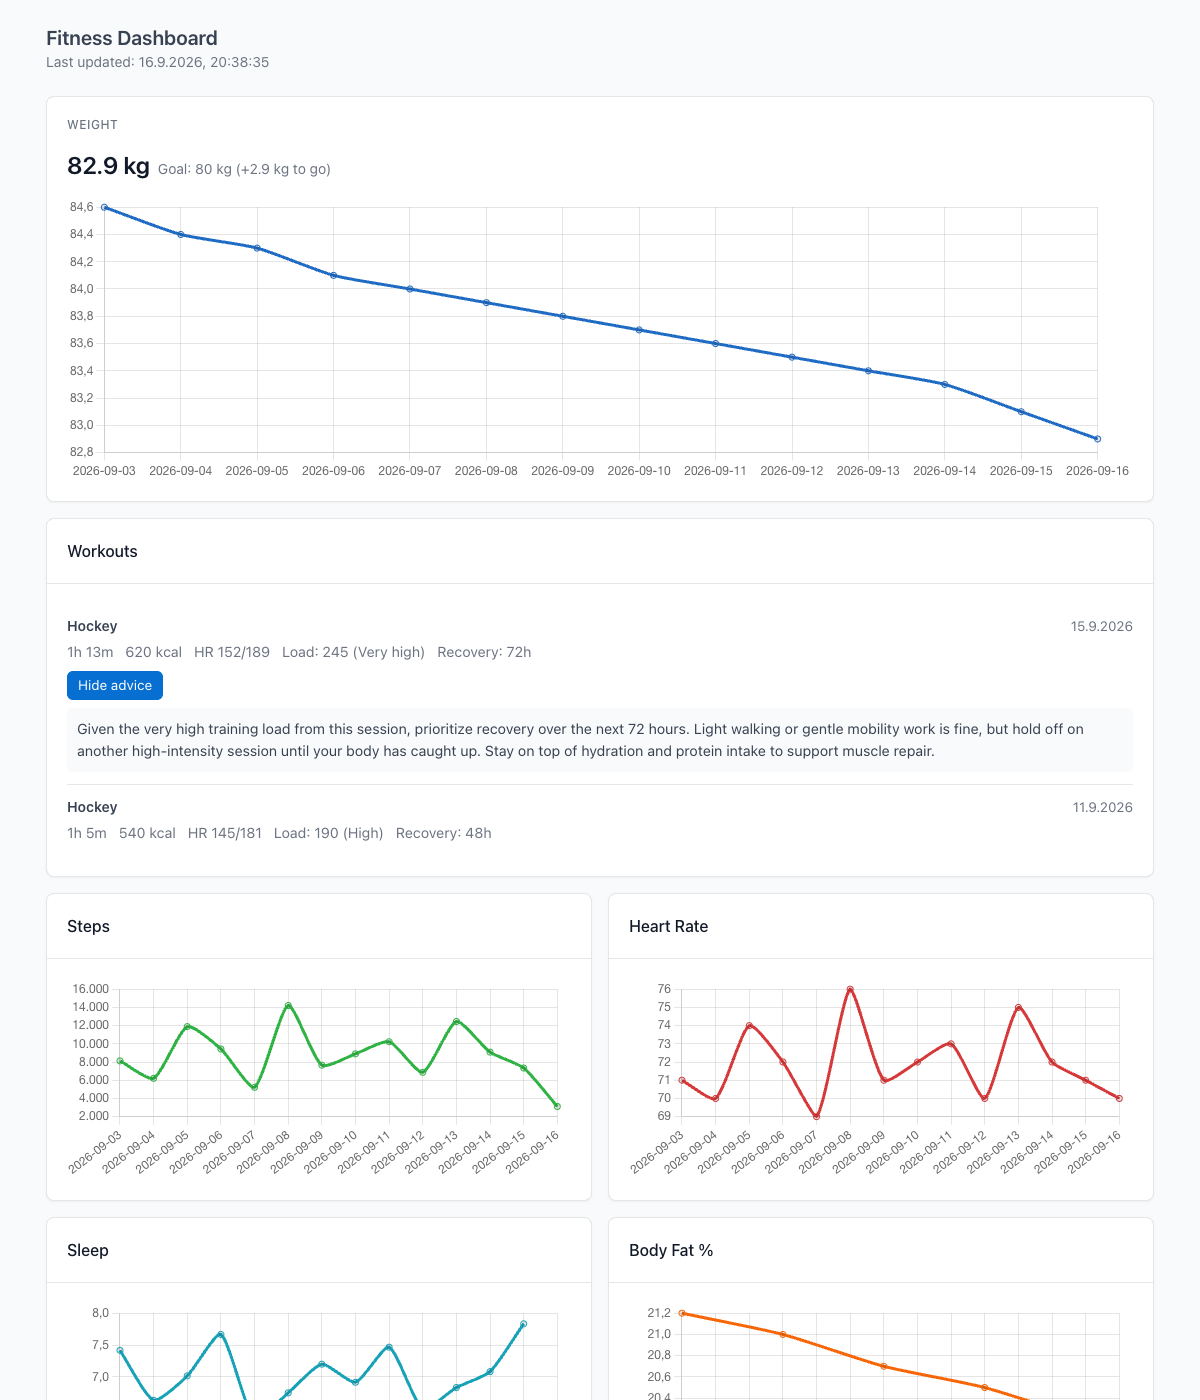
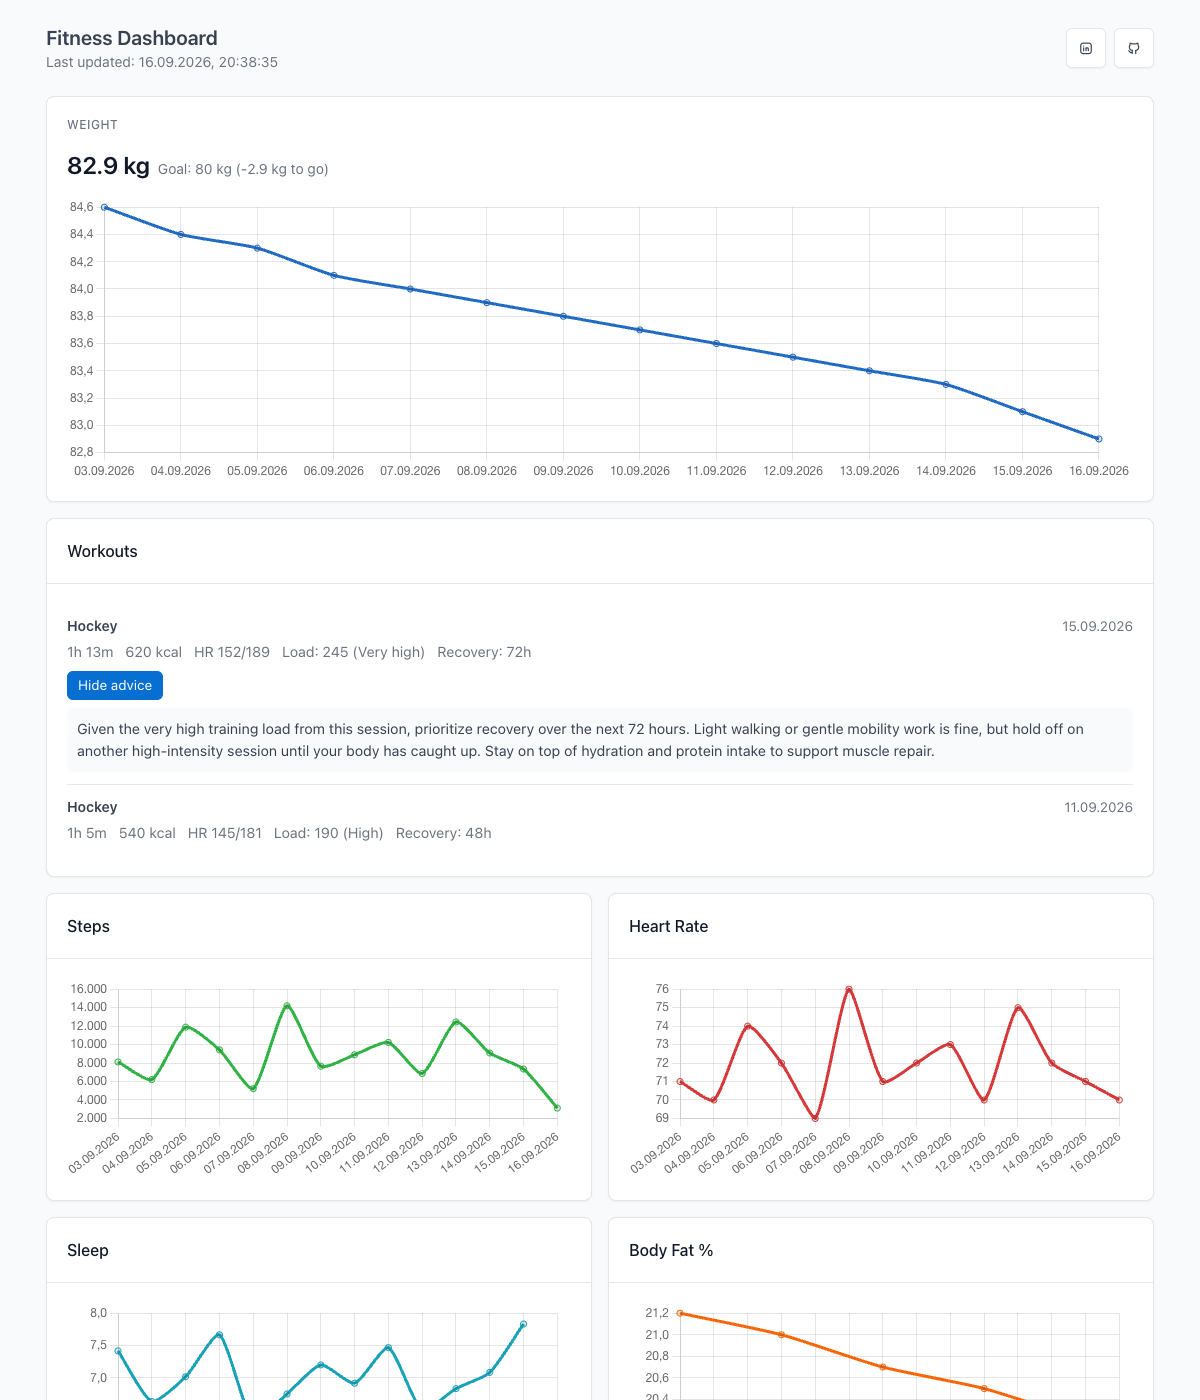
Fix goal-delta sign, use dd.mm.yyyy dates, add header profile links
The weight goal delta was computed as current - target, so being
above goal showed a confusing "+2.9 kg to go" instead of "-2.9" (the
direction you actually need to move). Flipped to target - current.

Added a shared formatDisplayDate() helper (separate from the existing
formatDate(), which stays in YYYY-MM-DD for API query params) and
applied it to the last-updated line, workout dates, and chart axis
labels for a consistent dd.mm.yyyy display format throughout.

Added LinkedIn and GitHub icon links to the top-right of the page
header using Tabler's btn-list/btn-icon pattern. Regenerated the
README screenshots to reflect all three changes.

diff --git a/public/dashboard.js b/public/dashboard.js
@@ -7,6 +7,11 @@ function formatDate(d) {
   return `${year}-${month}-${day}`;
 }
 
+function formatDisplayDate(isoLike) {
+  const [year, month, day] = String(isoLike).slice(0, 10).split('-');
+  return `${day}.${month}.${year}`;
+}
+
 async function fetchJson(url) {
   const response = await fetch(url);
   if (!response.ok) throw new Error(`Request failed: ${url}`);
@@ -46,7 +51,7 @@ function renderWorkouts(workouts) {
   }
   container.innerHTML = workouts
     .map((w, index) => {
-      const date = new Date(w.started_at).toLocaleDateString();
+      const date = formatDisplayDate(w.started_at);
       const load =
         w.training_load !== null
           ? `${w.training_load}${w.training_load_label ? ` (${escapeHtml(w.training_load_label)})` : ''}`
@@ -120,7 +125,7 @@ async function loadDashboard() {
     return;
   }
 
-  const labels = rows.map((r) => r.date);
+  const labels = rows.map((r) => formatDisplayDate(r.date));
   lineChart('weight-chart', labels, rows.map((r) => r.weight_kg), 'Weight (kg)', '#206bc4');
   lineChart('steps-chart', labels, rows.map((r) => r.steps), 'Steps', '#2fb344');
   lineChart('hr-chart', labels, rows.map((r) => r.avg_hr), 'Avg HR', '#d63939');
@@ -146,13 +151,13 @@ async function loadDashboard() {
       rows[0].updated_at
     );
     document.getElementById('last-updated').textContent =
-      `Last updated: ${new Date(latestUpdatedAt).toLocaleString()}`;
+      `Last updated: ${formatDisplayDate(latestUpdatedAt)}, ${new Date(latestUpdatedAt).toLocaleTimeString()}`;
   }
 
   if (goal) {
     const goalEl = document.getElementById('weight-goal');
     if (latestWeightRow) {
-      const delta = (latestWeightRow.weight_kg - goal.target).toFixed(1);
+      const delta = (goal.target - latestWeightRow.weight_kg).toFixed(1);
       const sign = Number(delta) > 0 ? '+' : '';
       goalEl.textContent = `Goal: ${goal.target} kg (${sign}${delta} kg to go)`;
     } else {

diff --git a/public/index.html b/public/index.html
@@ -19,6 +19,16 @@
               <h2 class="page-title">Fitness Dashboard</h2>
               <p id="last-updated" class="text-secondary mb-0"></p>
             </div>
+            <div class="col-auto ms-auto">
+              <div class="btn-list">
+                <a href="https://www.linkedin.com/in/gurpreethanjra/" target="_blank" rel="noopener" class="btn btn-icon" aria-label="LinkedIn profile">
+                  <i class="ti ti-brand-linkedin"></i>
+                </a>
+                <a href="https://github.com/gurpreet-hanjra/fitness-dashboard" target="_blank" rel="noopener" class="btn btn-icon" aria-label="GitHub repository">
+                  <i class="ti ti-brand-github"></i>
+                </a>
+              </div>
+            </div>
           </div>
         </div>
       </div>
